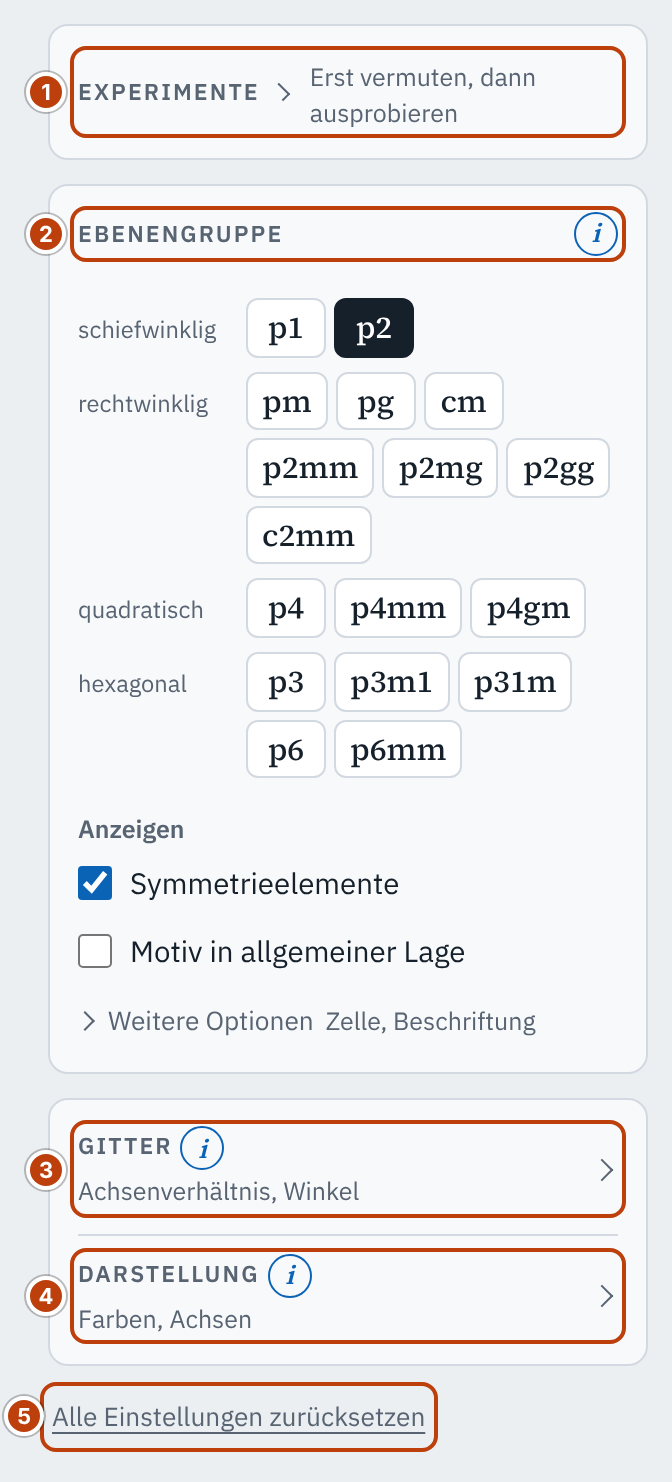
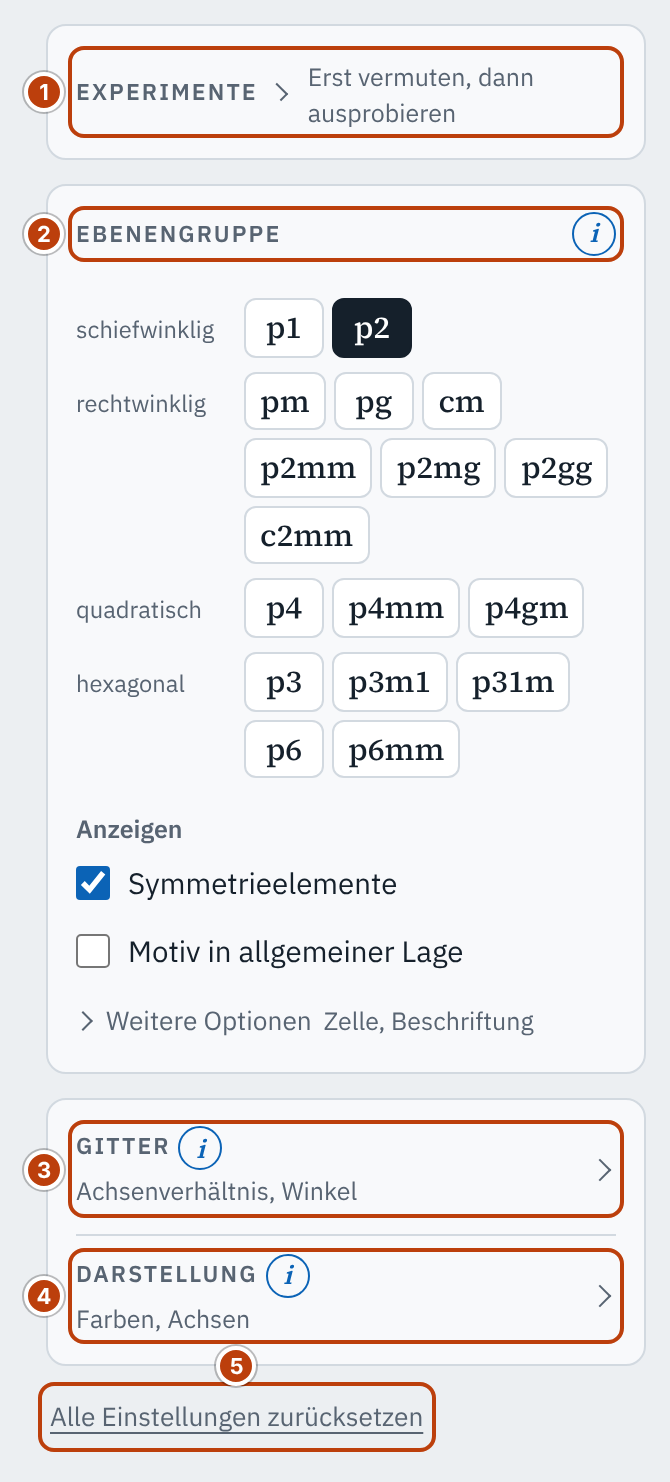
Hilfe: Tooltips im Browser prüfen, gesperrte Knöpfe in Firefox/WebKit, Bildwerkzeug in der CI, Nummern im Übersichtsbild (#114)
Claude-Session: https://claude.ai/code/session_01L8SY95VXotqfu663BjNLnr

diff --git a/tests/browser/help.html b/tests/browser/help.html
@@ -26,11 +26,17 @@
       <button id="knopf3" type="button">Knopf 3</button>
     </details>
   </section>
+  <!-- Tooltips im Browser (tools/tooltips-pruefen.mjs, #114): gesperrt, ohne id, im Code erzeugt, ohne Tooltip, Ausnahmen -->
+  <section class="card" id="tipprobe">
+    <div class="seg"><button type="button" id="gesperrt" disabled>Gesperrt</button><button type="button" data-art="a">Ohne id</button><button type="button" data-art="b">Fehlt</button></div>
+    <a href="#tipprobe">Ein Link</a>
+    <div class="ablauf-inhalt"><button type="button" class="linkbtn">Experiment</button></div>
+  </section>
 </main>
 <script type="module">
   import { initHelp } from '/js/help.js';
   initHelp({
-    tips: { knopf: 'Tooltip des Knopfs.', feld: 'Tooltip des Felds.', knopf2: 'Tooltip 2.', knopf3: 'Tooltip 3.' },
+    tips: { knopf: 'Tooltip des Knopfs.', feld: 'Tooltip des Felds.', knopf2: 'Tooltip 2.', knopf3: 'Tooltip 3.', gesperrt: 'Tooltip des gesperrten Knopfs.' },
     sections: [
       { heading: '#h-a', ids: ['knopf', 'feld'] },
       { heading: '#sect-lang > summary', intro: 'Einleitung des Abschnitts.', ids: ['knopf2'], hilfe: '{modus}-lang' },
@@ -39,6 +45,9 @@
     // Modus beim Aufklappen (Verweis auf die Hilfeseite, #114); zum Test über data-modus am body umschaltbar
     hilfeModus: () => document.body.dataset.modus ?? 'a',
   });
+  // im Code erzeugtes Bedienelement mit Tooltip (setTip)
+  const { setTip } = await import('/js/help.js');
+  setTip(document.querySelector('[data-art="a"]'), 'Tooltip ohne id.');
   document.body.dataset.bereit = '1';
 </script>
 </body>

diff --git a/LEITFADEN.md b/LEITFADEN.md
@@ -72,8 +72,8 @@ Die App ist eine **Werkbank**: links die Bedienung, rechts die Darstellungen, da
 - **Erste Schritte:** Karte oben in der Seitenleiste beim ersten Aufruf eines Modus, drei bis vier kurze Schritte zur Bedienung **je Modus**, jeder mit einem Knopf, der die App in den passenden Zustand bringt (überspringbar); der letzte verweist auf die Experimente. Nicht bei Aufruf über einen Link und nicht, solange die Adresse einen Zustand enthält (auch nach dem Neuladen; die App kann beides nicht unterscheiden); wegklickbar; wieder zu sehen nach „Alle Einstellungen zurücksetzen“. „?“ führt zur Hilfeseite, dort stehen sie als Anleitung.
 - **Experimente (Lernexperimente):** eigener einklappbarer Abschnitt „Experimente“ in der Seitenleiste, jederzeit erreichbar, je Modus einige. **Jedes Experiment steht für sich:** Es setzt kein anderes voraus und knüpft nicht an dessen Ende an; wer es zuerst öffnet, versteht seine erste Frage (Thomas, 12.11.2026). Je Schritt: Frage, Vermutung (2–3 Antworten, nach der Beobachtung ist die zutreffende markiert, ohne Punkte; die Handlung ist erst nach einer Vermutung frei), Handlung per Knopf (Zustand über die Link-Adresse; nur Bedienhandlungen, die nicht in der Adresse stehen, als Aktion der App), Beobachtung, kurze Erklärung mit Link ins Skript; danach „Vorher/Nachher“ zum Vergleich. Die App bleibt dabei frei bedienbar. Der Stand wird wie im Quiz gespeichert (`speicher: '<präfix>-experimente'`): je Experiment Durchgänge und ob zuletzt alle Vermutungen bei der Auflösung zutrafen (ohne Auflösung nur durchgespielt); die Liste zeigt ✓ (zuletzt richtig) oder ○ (durchgespielt), eine Übersicht mit Legende und „Stand löschen“. „Alle Einstellungen zurücksetzen“ lässt ihn wie das Quiz stehen (Entscheidung Thomas, 7.11.2026, #91). **Erzeugte Experimente** (#92, wie die Generatoren im Quiz): statt fester `schritte` liefern `params()` die Parameter und `make(p)` die Schritte; die Liste markiert sie mit ↻, am Ende steht „Neue Aufgabe“. Die Wahl folgt dem Vorrang des Quiz (nie gespielt, dann zuletzt falsch, dann die übrigen; nie zweimal dieselbe hintereinander), der Stand steht unter `<id>:<parameter>`, die Liste zeigt je erzeugtem Experiment einen Eintrag mit dem Stand des zuletzt gespielten Parameters. Je Thema zuerst ein handgeschriebenes Experiment, danach erzeugte Varianten; ein Test der App prüft jede Variante mit `pruefeAblaeufe` und die Aussagen gegen die Daten der App. **Gliederung nach Kapiteln:** Ab 6 Experimenten in einem Modus gliedert die Liste sie nach den Kapiteln des Skripts, wie das Quiz, sofern im Schnitt mindestens 2 Experimente auf ein Kapitel kommen („Weitere“ für Einträge ohne bekanntes Kapitel zählt mit). Sonst bleibt sie flach, in der Reihenfolge der Daten; die Daten der App stehen deshalb je Modus in der Reihenfolge der Kapitel, damit die Nummern in beiden Fällen gleich sind (`pruefeAblaeufe` prüft es). Gegliedert: je Kapitel ein Titel (Nummer und Kurztitel aus `KAPITEL`, `js/quiz-kapitel.js`; in der Seitenleiste als Beschriftung der Liste, auf der Hilfeseite als Überschrift), darunter die Experimente in der Reihenfolge der Daten, durchgehend nummeriert; der Stand gilt weiter für den ganzen Modus. Gezählt wird, was die Liste eines Modus zeigt, also auch Experimente ohne Modus (sie erscheinen in jedem). Jedes Experiment nennt dafür sein Kapitel (`kapitel`, Nummer wie im Quiz; bei mehreren das, in dem es vor allem übt); die App übergibt `KAPITEL` an `ablaufKarte`, an die Hilfeseite (`js/hilfe-daten.js`) und im Test an `pruefeAblaeufe` (meldet unbekannte Kapitel und ab der Schwelle fehlende). Erzeugte Experimente stehen in ihrem Kapitel, nicht am Ende (Entscheidungen Thomas, 9.11.2026, #107; Schnitt: 15.11.2026).
 - **Mechanik** für beide in `ablauf.js` (Erste Schritte mit `liste: false`), die Texte sind Daten der App (`hilfetexte.js`); ein Test prüft sie mit `pruefeAblaeufe` gegen die Prüffunktion der Adresse. Erste Schritte und Experimente stehen auch auf der Hilfeseite (unten). Dieselbe Mechanik dient geführten Abläufen mit Verzweigung (Bestimmung der Ebenengruppe). Entscheidungen Thomas, 7.11.2026 (#87).
-- **Tooltips** bei Bedienung mit der Maus (verzögert) und mit der Tastatur (Fokus), auch auf Laptops mit Touchscreen (massgebend ist das benutzte Gerät, nicht das primäre Zeigegerät des Browsers), **ⓘ-Erklärungen** je Abschnitt auf allen Geräten: Das ⓘ an der Überschrift klappt die Einleitung des Abschnitts (`intro`) und die Tooltips seiner Bedienelemente auf, damit kein Inhalt vom Gerät abhängt. Es bricht nie allein in eine neue Zeile: In einklappbaren Abschnitten (`summary`) steht es fest am letzten Wort der Überschrift, in Überschriften von Karten (`h2`) rechts. Trefferfläche mit der Maus 28 px, mit Touch 40 px (nach dem zuletzt benutzten Gerät); es hat selbst einen Tooltip (Entscheidung Thomas, 12.11.2026, #140). Hinweise, die nur für Maus oder Touch gelten (`.only-fine`, `.only-coarse`), folgen dem zuletzt benutzten Gerät, auch im ⓘ; ein Stift zählt als Touch. Mechanik in `help.js`, Texte in der App (`hilfetexte.js`), Begriffe wie im Skript. **Jedes Bedienelement hat einen Tooltip**, ausser selbsterklärenden Links (z. B. „Skript“, „Quiz“, „?“), Schliessen „×“ (mit `aria-label`), dem Export-Menü (Knopf und Einträge sagen mit ihrem Text, was sie tun; die ID des Knopfs gehört deshalb in `ohne`, unten) und den Köpfen einklappbarer Abschnitte (`summary`; was darin steht, sagt `.sumhint`). Knöpfe als Symbol haben immer einen, dazu ein `aria-label` mit ihrem Namen. Er sagt **kurz** die Funktion des Elements oder eine nötige Angabe (z. B. „Winkel zwischen zwei Flächenpolen messen.“, „Dreieck (gleichseitig) (3*m*)“), darüber hinaus nur, was nicht ohnehin zu sehen ist: nicht, was Beschriftung oder Aufbau schon zeigen, und keine Gründe, warum es die Funktion gibt (Thomas, 12.11.2026). Richtwert ist ein kurzer Satz, geprüft werden höchstens 120 Zeichen (`TIP_MAX`). Ausführlicheres gehört in die Einleitung des ⓘ (`intro`, das ⓘ zeigt sonst dieselben Texte) und auf die Hilfeseite. Den Text in `TIPS`, nicht zusätzlich als `title` im HTML (sonst erscheinen zwei Tooltips); eine Ausnahme darf ein `title` behalten. Ein Test der App prüft das mit `pruefeTooltips(html, TIPS, { ohne })` für die Bedienelemente mit `id` in `index.html` (`button`, `input`, `select`, `textarea`, `a`); `ohne` nennt die Ausnahmen. Nicht geprüft werden Elemente ohne `id` und solche, die die App im Code erzeugt (`setTip`); dafür fehlt noch ein Browsertest je App (#114). Entscheidungen Thomas, 9.11.2026 (#114).
-- **Hilfeseite** `hilfe.html` neben Skript und Quiz, über „?“ in der Kopfzeile (ein Link, `<a class="helpbtn" id="help-open" href="hilfe.html">`); Aufbau und Aussehen wie das Skript (hell und dunkel, `css/skript.css` und danach `css/hilfe.css`). Sie ist eine **Anleitung zur Bedienung**, gegliedert in: **Überblick** (Zweck der App, ihre Teile, die Modi mit je einem Satz, wozu sie dienen, Aufbau der Werkbank mit Bild, die Familie, Rückmeldung über GitHub); **Bedienkonzepte** (gemeinsame, dann die der App, z. B. Einrasten, Symmetrie brechen); **je Modus** ein Kapitel mit *Nachschlagen* (Seitenleiste, Tafeln, Kenndaten: je Bereich ein Bild mit nummerierten Marken und eine Liste in derselben Reihenfolge), *Anleitungen* und *Experimenten*; **typische Fragen** (Antwort, „In der App zeigen“, „Im Skript nachlesen“); zuletzt **Link, Speicher, offline, Export, Geräte und Tastatur**. Was für alle Apps gleich ist (Teile, Familie, gemeinsame Bedienkonzepte, Link, Speicher, Zurücksetzen, offline, Export, Geräte, Tastatur), steht als Daten in `js/hilfe-gemeinsam.js`; die App ergänzt einen Text (`ergaenzungen`) oder lässt ihn weg (`ohne`). **Anleitungen:** zuerst die Erste Schritte des Modus, dazu eine Anleitung für jede Aufgabe, die mehrere Schritte braucht und die Tooltip und ⓘ nicht abdecken, ohne feste Zahl (`anleitungen`, nur auf der Hilfeseite, gleicher Typ wie die Erste Schritte); jede Schritt für Schritt mit Bildern der Bedienung und, wo der Schritt eine Link-Adresse hat, „In der App zeigen“. **Experimente als Liste**, nach Kapiteln gegliedert wie in der App: Titel und erste Frage (bei einem erzeugten die zum ersten Parameter, mit ↻), dazu „In der App ausprobieren“, das die App mit `?experiment=<id>` öffnet; die App wechselt in den Modus des Experiments, schliesst die Erste Schritte und startet es (`experimentAusAdresse`); die Auflösung steht nur in der App. **Bilder** erzeugt `tools/hilfe-bilder.mjs` mit Playwright im hellen Modus: je Schritt einer Anleitung ein Ausschnitt um das Bedienelement (Karte, Tafel oder Kopfzeile), das Element umrahmt; welches, sagt der Schritt mit `zeige` (CSS-Selektor, beginnt mit `#id`), im Zustand der letzten Link-Adresse davor (Aktionen der App wirken nicht auf die Bilder, ein Schritt danach gibt seinen Zustand mit `bild` an; Zustand, der nicht in der Adresse steht, wie ein gewähltes Werkzeug oder ein Strich, stellt `vorher` mit Klicks und Ziehen nur für das Bild her). Je Bereich zum Nachschlagen ein Ausschnitt (`ausschnitt`, sonst der Baustein um die Marken) mit nummerierten Marken an den Elementen seiner Einträge (`zeige`, möglichst mit `#id`); ein Bereich ohne Modus erscheint in jedem Modus mit eigenem Bild. Ein Ausschnitt, der höher als das Fenster ist, wird ganz abgebildet. Wo es geht, Schritte mit Link-Adresse schreiben. **Verweise aus dem ⓘ:** Jede ⓘ-Erklärung endet mit „Mehr in der Hilfe“ auf die passende Stelle (`hilfe` im Abschnitt von `SECTIONS`; Anker eines Bereichs oder Eintrags `{modus}-<id>`, den Modus setzt `initHelp({ hilfeModus })` beim Aufklappen ein). `pruefeHilfe` im Test der App prüft Bilder, IDs der abgebildeten Elemente, doppelte Anker, die gemeinsamen Texte und die Ziele der ⓘ (`verweise`); ob ein ganzer Selektor trifft, zeigt erst das Werkzeug. Mechanik in `js/hilfe-seite.js`, Daten der App in `js/hilfe-daten.js` (Muster in der Vorlage). Die Hilfeseite erklärt die Bedienung, nicht die Fachinhalte, und verweist dafür ins Skript; umgekehrt ist das Skript keine Bedienungsanleitung. Offenes zur Hilfe sammelt #114. Entscheidungen Thomas, 4. und 8.11.2026 (#24) und 15.11.2026 (#114).
+- **Tooltips** bei Bedienung mit der Maus (verzögert) und mit der Tastatur (Fokus), auch auf Laptops mit Touchscreen (massgebend ist das benutzte Gerät, nicht das primäre Zeigegerät des Browsers), **ⓘ-Erklärungen** je Abschnitt auf allen Geräten: Das ⓘ an der Überschrift klappt die Einleitung des Abschnitts (`intro`) und die Tooltips seiner Bedienelemente auf, damit kein Inhalt vom Gerät abhängt. Es bricht nie allein in eine neue Zeile: In einklappbaren Abschnitten (`summary`) steht es fest am letzten Wort der Überschrift, in Überschriften von Karten (`h2`) rechts. Trefferfläche mit der Maus 28 px, mit Touch 40 px (nach dem zuletzt benutzten Gerät); es hat selbst einen Tooltip (Entscheidung Thomas, 12.11.2026, #140). Hinweise, die nur für Maus oder Touch gelten (`.only-fine`, `.only-coarse`), folgen dem zuletzt benutzten Gerät, auch im ⓘ; ein Stift zählt als Touch. Mechanik in `help.js`, Texte in der App (`hilfetexte.js`), Begriffe wie im Skript. **Jedes Bedienelement hat einen Tooltip**, ausser Links (sie sagen mit ihrem Text, wohin sie führen: „Skript“, „Quiz“, „?“, Begriffe in den Kenndaten, Fusszeile), Schliessen „×“ (mit `aria-label`), dem Export-Menü (Knopf und Einträge sagen mit ihrem Text, was sie tun; die ID des Knopfs gehört deshalb in `ohne`, unten), den Köpfen einklappbarer Abschnitte (`summary`; was darin steht, sagt `.sumhint`) und den Knöpfen der Experimente und Erste Schritte (Liste und laufender Ablauf, `.ablauf-inhalt`; ihr Text sagt, was sie tun; Thomas, 15.11.2026). Knöpfe als Symbol haben immer einen, dazu ein `aria-label` mit ihrem Namen. Er sagt **kurz** die Funktion des Elements oder eine nötige Angabe (z. B. „Winkel zwischen zwei Flächenpolen messen.“, „Dreieck (gleichseitig) (3*m*)“), darüber hinaus nur, was nicht ohnehin zu sehen ist: nicht, was Beschriftung oder Aufbau schon zeigen, und keine Gründe, warum es die Funktion gibt (Thomas, 12.11.2026). Richtwert ist ein kurzer Satz, geprüft werden höchstens 120 Zeichen (`TIP_MAX`). Ausführlicheres gehört in die Einleitung des ⓘ (`intro`, das ⓘ zeigt sonst dieselben Texte) und auf die Hilfeseite. Den Text in `TIPS`, nicht zusätzlich als `title` im HTML (sonst erscheinen zwei Tooltips); eine Ausnahme darf ein `title` behalten. Ein Test der App prüft das mit `pruefeTooltips(html, TIPS, { ohne })` für die Bedienelemente mit `id` in `index.html` (`button`, `input`, `select`, `textarea`, `a`); `ohne` nennt die Ausnahmen. Elemente ohne `id` und solche, die die App im Code erzeugt (`setTip`), prüft der Browserlauf der App mit `fehlendeTooltips(page)` aus `tools/tooltips-pruefen.mjs` (dieselben Ausnahmen, `AUSNAHMEN`), je Modus. Entscheidungen Thomas, 9.11.2026 (#114).
+- **Hilfeseite** `hilfe.html` neben Skript und Quiz, über „?“ in der Kopfzeile (ein Link, `<a class="helpbtn" id="help-open" href="hilfe.html">`); Aufbau und Aussehen wie das Skript (hell und dunkel, `css/skript.css` und danach `css/hilfe.css`). Sie ist eine **Anleitung zur Bedienung**, gegliedert in: **Überblick** (Zweck der App, ihre Teile, die Modi mit je einem Satz, wozu sie dienen, Aufbau der Werkbank mit Bild, die Familie, Rückmeldung über GitHub); **Bedienkonzepte** (gemeinsame, dann die der App, z. B. Einrasten, Symmetrie brechen); **je Modus** ein Kapitel mit *Nachschlagen* (Seitenleiste, Tafeln, Kenndaten: je Bereich ein Bild mit nummerierten Marken und eine Liste in derselben Reihenfolge), *Anleitungen* und *Experimenten*; **typische Fragen** (Antwort, „In der App zeigen“, „Im Skript nachlesen“); zuletzt **Link, Speicher, offline, Export, Geräte und Tastatur**. Was für alle Apps gleich ist (Teile, Familie, gemeinsame Bedienkonzepte, Link, Speicher, Zurücksetzen, offline, Export, Geräte, Tastatur), steht als Daten in `js/hilfe-gemeinsam.js`; die App ergänzt einen Text (`ergaenzungen`) oder lässt ihn weg (`ohne`). **Anleitungen:** zuerst die Erste Schritte des Modus, dazu eine Anleitung für jede Aufgabe, die mehrere Schritte braucht und die Tooltip und ⓘ nicht abdecken, ohne feste Zahl (`anleitungen`, nur auf der Hilfeseite, gleicher Typ wie die Erste Schritte); jede Schritt für Schritt mit Bildern der Bedienung und, wo der Schritt eine Link-Adresse hat, „In der App zeigen“. **Experimente als Liste**, nach Kapiteln gegliedert wie in der App: Titel und erste Frage (bei einem erzeugten die zum ersten Parameter, mit ↻), dazu „In der App ausprobieren“, das die App mit `?experiment=<id>` öffnet; die App wechselt in den Modus des Experiments, schliesst die Erste Schritte und startet es (`experimentAusAdresse`); die Auflösung steht nur in der App. **Bilder** erzeugt `tools/hilfe-bilder.mjs` mit Playwright im hellen Modus: je Schritt einer Anleitung ein Ausschnitt um das Bedienelement (Karte, Tafel oder Kopfzeile), das Element umrahmt; welches, sagt der Schritt mit `zeige` (CSS-Selektor, beginnt mit `#id`), im Zustand der letzten Link-Adresse davor (Aktionen der App wirken nicht auf die Bilder, ein Schritt danach gibt seinen Zustand mit `bild` an; Zustand, der nicht in der Adresse steht, wie ein gewähltes Werkzeug oder ein Strich, stellt `vorher` mit Klicks und Ziehen nur für das Bild her). Je Bereich zum Nachschlagen ein Ausschnitt (`ausschnitt`, sonst der Baustein um die Marken) mit nummerierten Marken an den Elementen seiner Einträge (`zeige`, möglichst mit `#id`); ein Bereich ohne Modus erscheint in jedem Modus mit eigenem Bild. Ein Ausschnitt, der höher als das Fenster ist, wird ganz abgebildet. Fehlt links neben einem grossen nummerierten Baustein der Platz für die Nummer (Übersichtsbild), bekommt die Seite nur für das Bild links Rand und grössere Abstände zwischen den Tafeln (Thomas, 15.11.2026). Wo es geht, Schritte mit Link-Adresse schreiben. **Verweise aus dem ⓘ:** Jede ⓘ-Erklärung endet mit „Mehr in der Hilfe“ auf die passende Stelle (`hilfe` im Abschnitt von `SECTIONS`; Anker eines Bereichs oder Eintrags `{modus}-<id>`, den Modus setzt `initHelp({ hilfeModus })` beim Aufklappen ein). `pruefeHilfe` im Test der App prüft Bilder, IDs der abgebildeten Elemente, doppelte Anker, die gemeinsamen Texte und die Ziele der ⓘ (`verweise`); ob ein ganzer Selektor trifft, zeigt erst das Werkzeug. Mechanik in `js/hilfe-seite.js`, Daten der App in `js/hilfe-daten.js` (Muster in der Vorlage). Die Hilfeseite erklärt die Bedienung, nicht die Fachinhalte, und verweist dafür ins Skript; umgekehrt ist das Skript keine Bedienungsanleitung. Offenes zur Hilfe sammelt #114. Entscheidungen Thomas, 4. und 8.11.2026 (#24) und 15.11.2026 (#114).
 
 ### 5.4 Barrierefreiheit
 

diff --git a/CLAUDE.md b/CLAUDE.md
@@ -143,8 +143,11 @@ Die Regeln selbst stehen im Leitfaden; hier, warum.
   Höchstlänge (Thomas). 120 Zeichen fassen einen kurzen Satz; die längsten Texte hatten gut 300. Inhalt (Thomas, 12.11.2026, nach der
   Durchsicht von plane-groups 1.3.0): Tooltips wiederholten Beschriftungen und Begründungen aus der Planung (Extrembeispiel Lupe); sie
   sollen nur die Funktion oder eine nötige Angabe nennen. Der Test sieht nur
-  Elemente mit `id` in `index.html`; Elemente ohne `id` (z. B. Segmentknöpfe) und im Code erzeugte bräuchten einen
-  Browsertest je App (offen, #114). `title` neben einem Tooltip meldet er, weil der Browser sonst zwei zeigt (Review
+  Elemente mit `id` in `index.html`; Elemente ohne `id` (z. B. Segmentknöpfe) und im Code erzeugte prüft der Browserlauf
+  jeder App mit `fehlendeTooltips` (#114). Dabei zeigten sich ohne Tooltip nur Knöpfe der Experimente, Begriffslinks der
+  Kenndaten und Links in Kopf- und Fusszeile; Thomas (15.11.2026) nahm sie als Ausnahmen auf, dazu die Knöpfe eines
+  laufenden Ablaufs, weil ihr Text sagt, was sie tun. Tooltips an gesperrten Knöpfen prüft die CI in Chromium und, soweit
+  sie starten, in Firefox und WebKit. `title` neben einem Tooltip meldet er, weil der Browser sonst zwei zeigt (Review
   des PR #120). Texte für Maus und Touch folgen dem zuletzt benutzten Gerät (`data-zeiger` an `<html>`), nicht nur der Media
   Query: Nach #116 erschienen Tooltips auf einem Laptop mit Touchscreen, die Karte „Erste Schritte“ sagte aber weiter
   „Das ⓘ … erklärt“ (Review von #116). **Das ⓘ auf allen Geräten** (Thomas, 12.11.2026, #140): Mit der Maus sah man
@@ -252,7 +255,10 @@ Die Regeln selbst stehen im Leitfaden; hier, warum.
   der Modus im Verweis aus dem ⓘ deshalb als Platzhalter `{modus}`, eingesetzt beim Aufklappen. Marken eines Bereichs dürfen
   auch Bausteine ohne ID treffen (z. B. `header.top` im Übersichtsbild); `pruefeHilfe` prüft dann nur die IDs, die es gibt.
   Nicht jetzt (Thomas): Hinweise in der App bei Änderungen im Bild, Fachbegriffe in zwei Tiefen (#100), Hinweise für
-  Lehrende. Offen: #114.
+  Lehrende. Nummern im Übersichtsbild (Thomas, 15.11.2026, Wahl unter „auf der Rahmenlinie lassen“, „innen in die Ecke“
+  und „Rand dazugeben“): Sie lagen auf der oberen Rahmenlinie, weil links neben den Bausteinen kein Platz war; jetzt
+  bekommt die Seite für solche Bilder links Rand und grössere Abstände. Ein Browsertest des Werkzeugs an der Vorlage
+  läuft in der CI (Übersicht ohne Notlösung, `vorher`).
 - **Kennzeichnung der Typen in Datendateien** (4.11.2026, Leitfaden Abschn. 9): Ein Literal wird erst durch
   eine Typangabe zum gekennzeichneten Typ (z. B. `Normale`, `Grad`). Je Tabelle einmal bleiben die Einträge
   ohne Code lesbar und änderbar, was die Regel „Daten getrennt vom Code“ bezweckt. Die Alternativen wären

diff --git a/CHANGELOG.md b/CHANGELOG.md
@@ -6,6 +6,15 @@ Das Format folgt [Keep a Changelog](https://keepachangelog.com/de/1.1.0/), die V
 
 ## [Unreleased]
 
+### Hinzugefügt
+
+- **Tooltips im Browser prüfen** (`tools/tooltips-pruefen.mjs`, #114): `fehlendeTooltips(page, { ohne })` meldet sichtbare Bedienelemente ohne Tooltip, auch ohne `id` und im Code erzeugte; Ausnahmen in `AUSNAHMEN`. Browsertests: der Helfer, Tooltips an gesperrten Knöpfen in Chromium, Firefox und WebKit (soweit sie starten; die CI installiert beide), das Bildwerkzeug an der Vorlage. Für die Apps: im Browserlauf je Modus `fehlendeTooltips` aufrufen.
+
+### Geändert
+
+- **Ausnahmen der Tooltips** (Leitfaden 5.3; Thomas, 15.11.2026, #114): alle Links (auch Begriffe der Kenndaten und Fusszeile) und die Knöpfe der Experimente und Erste Schritte, Liste und laufender Ablauf.
+- **Bilder der Hilfeseite** (`tools/hilfe-bilder.mjs`; Thomas, 15.11.2026, #114): Fehlt links neben einem grossen nummerierten Baustein der Platz (Übersichtsbild), bekommt die Seite für das Bild links Rand und grössere Abstände; die Nummern stehen dann links neben den Bausteinen statt auf der Rahmenlinie. Für die Apps: Bilder neu erzeugen.
+
 ## [0.22.0] - 2026-11-15
 
 Hilfeseite als Anleitung zur Bedienung (#114): Überblick, Bedienkonzepte, je Modus Nachschlagen mit nummerierten Bildern, Anleitungen, Experimente, typische Fragen, Technik; gemeinsame Texte in `js/hilfe-gemeinsam.js`; Verweise aus dem ⓘ. Für die Apps: `experimentAusAdresse` umstellen (Experimente statt Kennungen, Optionen statt Funktion); `js/hilfe-daten.js` um die neuen Teile ergänzen, `hilfe` in `SECTIONS` und `hilfeModus` in `initHelp`, im Test `verweise` an `pruefeHilfe`; Bilder neu erzeugen und mit `lib/common/js/hilfe-gemeinsam.js` in die Offline-Liste von `sw.js` aufnehmen.

diff --git a/README.md b/README.md
@@ -40,6 +40,7 @@ Wie die Apps aussehen und sich verhalten sollen, steht im **[Leitfaden](LEITFADE
 | | `moodle.mjs` | Quizfragen als Moodle-XML |
 | | `skript-pdf.mjs` | Skript als PDF (A4) mit Playwright |
 | | `hilfe-bilder.mjs` | Bilder der Hilfeseite mit Playwright: Ausschnitt der App je Schritt einer Anleitung mit `zeige` (Bedienelement umrahmt) und je Bereich zum Nachschlagen (Elemente nummeriert) (in der App `node tools/common/hilfe-bilder.mjs`) |
+| | `tooltips-pruefen.mjs` | Für die Browserläufe der Apps: sichtbare Bedienelemente ohne Tooltip, auch ohne `id` und im Code erzeugte (`fehlendeTooltips`, Ausnahmen nach Leitfaden 5.3) |
 | | `kontraste.mjs` | Kontraste der gerenderten Seiten nach WCAG 2.2 messen (unten) |
 | | `server.mjs` | kleiner statischer Webserver für Werkzeuge und Tests; direkt gestartet bedient er den Arbeitsordner wie GitHub Pages |
 | `vorlagen/` | | Ausgangspunkt für eine neue App (Seiten, Service Worker, Workflows, Tests) |
